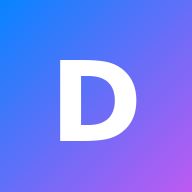
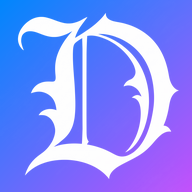
v27

diff --git a/index.html b/index.html
@@ -4,9 +4,10 @@
 <meta charset="UTF-8">
 <meta name="viewport" content="width=device-width, initial-scale=1, viewport-fit=cover">
 <title>DailyLeng</title>
+<link rel="icon" type="image/png" sizes="32x32" href="icon-32.png">
+<link rel="icon" type="image/png" sizes="192x192" href="icon-192.png">
+<link rel="apple-touch-icon" sizes="180x180" href="icon-180.png">
 <link rel="manifest" href="manifest.webmanifest">
-<link rel="icon" href="icon-192.png">
-<link rel="apple-touch-icon" href="icon-192.png">
 <style>
 :root{
   --bg:#f5f5f7;--surface:#ffffff;--text:#1d1d1f;--text2:#6e6e73;
@@ -475,7 +476,7 @@ $('pgi').onclick=()=>st(imp($('pgt').value));
 $('pgf').onclick=()=>$('pgfi').click();
 $('pgfi').onchange=e=>{const f=e.target.files[0];if(!f)return;const r=new FileReader();r.onload=()=>st(imp(String(r.result)));r.onerror=()=>st('No se pudo leer el archivo.');r.readAsText(f)};
 /* PWA: manifest, iconos y Service Worker */
-try{const add=h=>document.head.insertAdjacentHTML('beforeend',h);if(!document.querySelector('meta[name=theme-color]'))add('<meta name="theme-color" content="#0a84ff">');add('<meta name="apple-mobile-web-app-capable" content="yes"><meta name="mobile-web-app-capable" content="yes"><meta name="apple-mobile-web-app-title" content="DailyLeng"><meta name="apple-mobile-web-app-status-bar-style" content="black-translucent">');const cv=document.createElement('canvas');cv.width=cv.height=512;const c=cv.getContext('2d'),g=c.createLinearGradient(0,0,512,512);g.addColorStop(0,'#0a84ff');g.addColorStop(1,'#bf5af2');c.fillStyle=g;c.fillRect(0,0,512,512);c.fillStyle='#fff';c.font='700 300px -apple-system,Helvetica,Arial,sans-serif';c.textAlign='center';c.textBaseline='middle';c.fillText('D',256,276);const ic=cv.toDataURL('image/png');if(!document.querySelector('link[rel=apple-touch-icon]'))add('<link rel="apple-touch-icon" href="'+ic+'">');if(!document.querySelector('link[rel=icon]'))add('<link rel="icon" href="'+ic+'">');if(!document.querySelector('link[rel=manifest]')){const u=location.href.split('#')[0],m={name:'DailyLeng',short_name:'DailyLeng',description:'Aprende idiomas a diario',display:'standalone',background_color:'#0b0b10',theme_color:'#0a84ff',start_url:u,scope:u.replace(/[^\/]*$/,''),icons:[{src:ic,sizes:'512x512',type:'image/png',purpose:'any'}]};add('<link rel="manifest" href="data:application/manifest+json,'+encodeURIComponent(JSON.stringify(m))+'">')}const ml=document.querySelector('link[rel=manifest]');if('serviceWorker' in navigator&&/^https?:$/.test(location.protocol)&&ml&&ml.getAttribute('href')==='manifest.webmanifest')navigator.serviceWorker.register('sw.js').catch(()=>{});}catch(e){}
+try{const add=h=>document.head.insertAdjacentHTML('beforeend',h);if(!document.querySelector('meta[name=theme-color]'))add('<meta name="theme-color" content="#0a84ff">');add('<meta name="apple-mobile-web-app-capable" content="yes"><meta name="mobile-web-app-capable" content="yes"><meta name="apple-mobile-web-app-title" content="DailyLeng"><meta name="apple-mobile-web-app-status-bar-style" content="black-translucent">');const ic=new URL('icon-512.png',location.href).href,icm=new URL('icon-maskable-512.png',location.href).href;if(!document.querySelector('link[rel=apple-touch-icon]'))add('<link rel="apple-touch-icon" href="'+ic+'">');if(!document.querySelector('link[rel=icon]'))add('<link rel="icon" href="'+ic+'">');if(!document.querySelector('link[rel=manifest]')){const u=location.href.split('#')[0],m={name:'DailyLeng',short_name:'DailyLeng',description:'Aprende idiomas a diario',display:'standalone',background_color:'#0b0b10',theme_color:'#0a84ff',start_url:u,scope:u.replace(/[^\/]*$/,''),icons:[{src:ic,sizes:'512x512',type:'image/png',purpose:'any'},{src:icm,sizes:'512x512',type:'image/png',purpose:'maskable'}]};add('<link rel="manifest" href="data:application/manifest+json,'+encodeURIComponent(JSON.stringify(m))+'">')}const ml=document.querySelector('link[rel=manifest]');if('serviceWorker' in navigator&&/^https?:$/.test(location.protocol)&&ml&&ml.getAttribute('href')==='manifest.webmanifest')navigator.serviceWorker.register('sw.js').catch(()=>{});}catch(e){}
 })();
 /* v16: resultados, nº de preguntas, test de números y vocabulario de cocina (atajos de teclado retirados en v17) */
 (function(){

diff --git a/sw.js b/sw.js
@@ -1,6 +1,6 @@
 /* DailyLeng · Service Worker. Cambia V en cada versión para que salga el aviso «Hay una versión nueva». */
-const V = 'dailyleng-v28';
-const FILES = ['./', 'index.html', 'manifest.webmanifest', 'icon-192.png', 'icon-512.png',
+const V = 'dailyleng-v28.1';
+const FILES = ['./', 'index.html', 'manifest.webmanifest', 'icon-32.png', 'icon-180.png', 'icon-192.png', 'icon-512.png', 'icon-maskable-192.png', 'icon-maskable-512.png',
   'data/fr.js', 'data/ru.js', 'data/en.js', 'data/de.js', 'data/it.js', 'data/pt.js'];
 
 self.addEventListener('install', e => {
